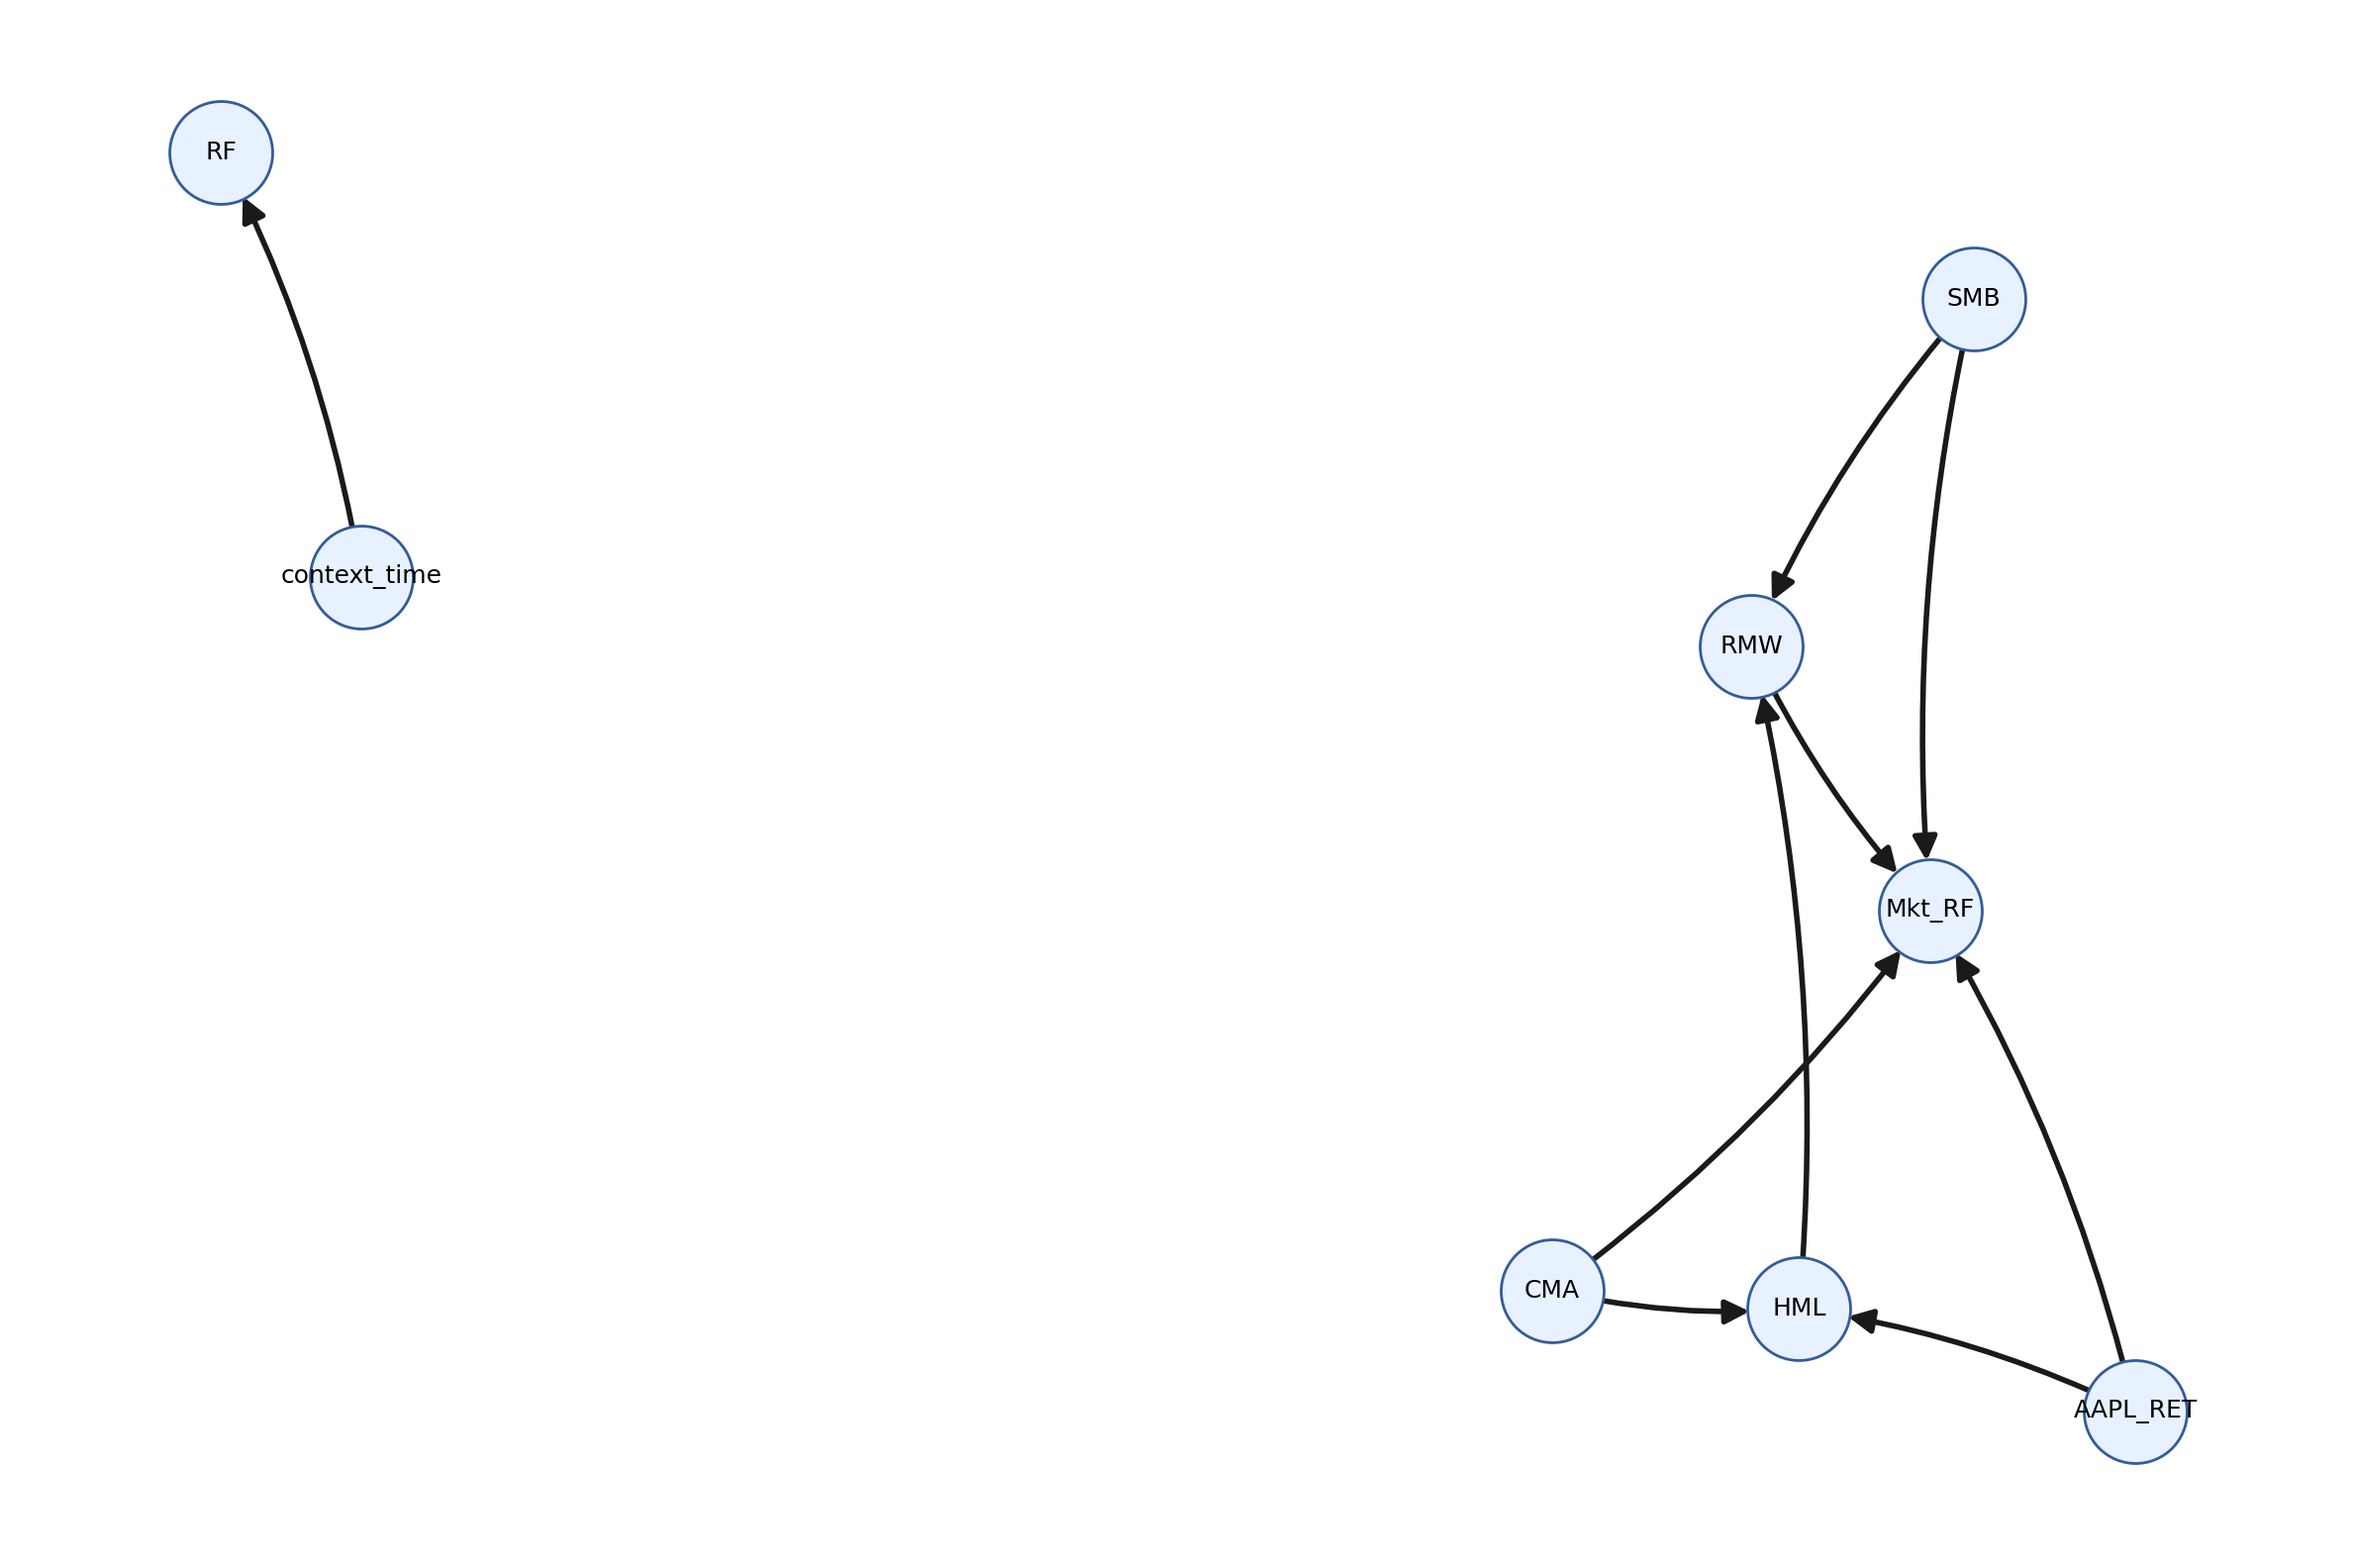
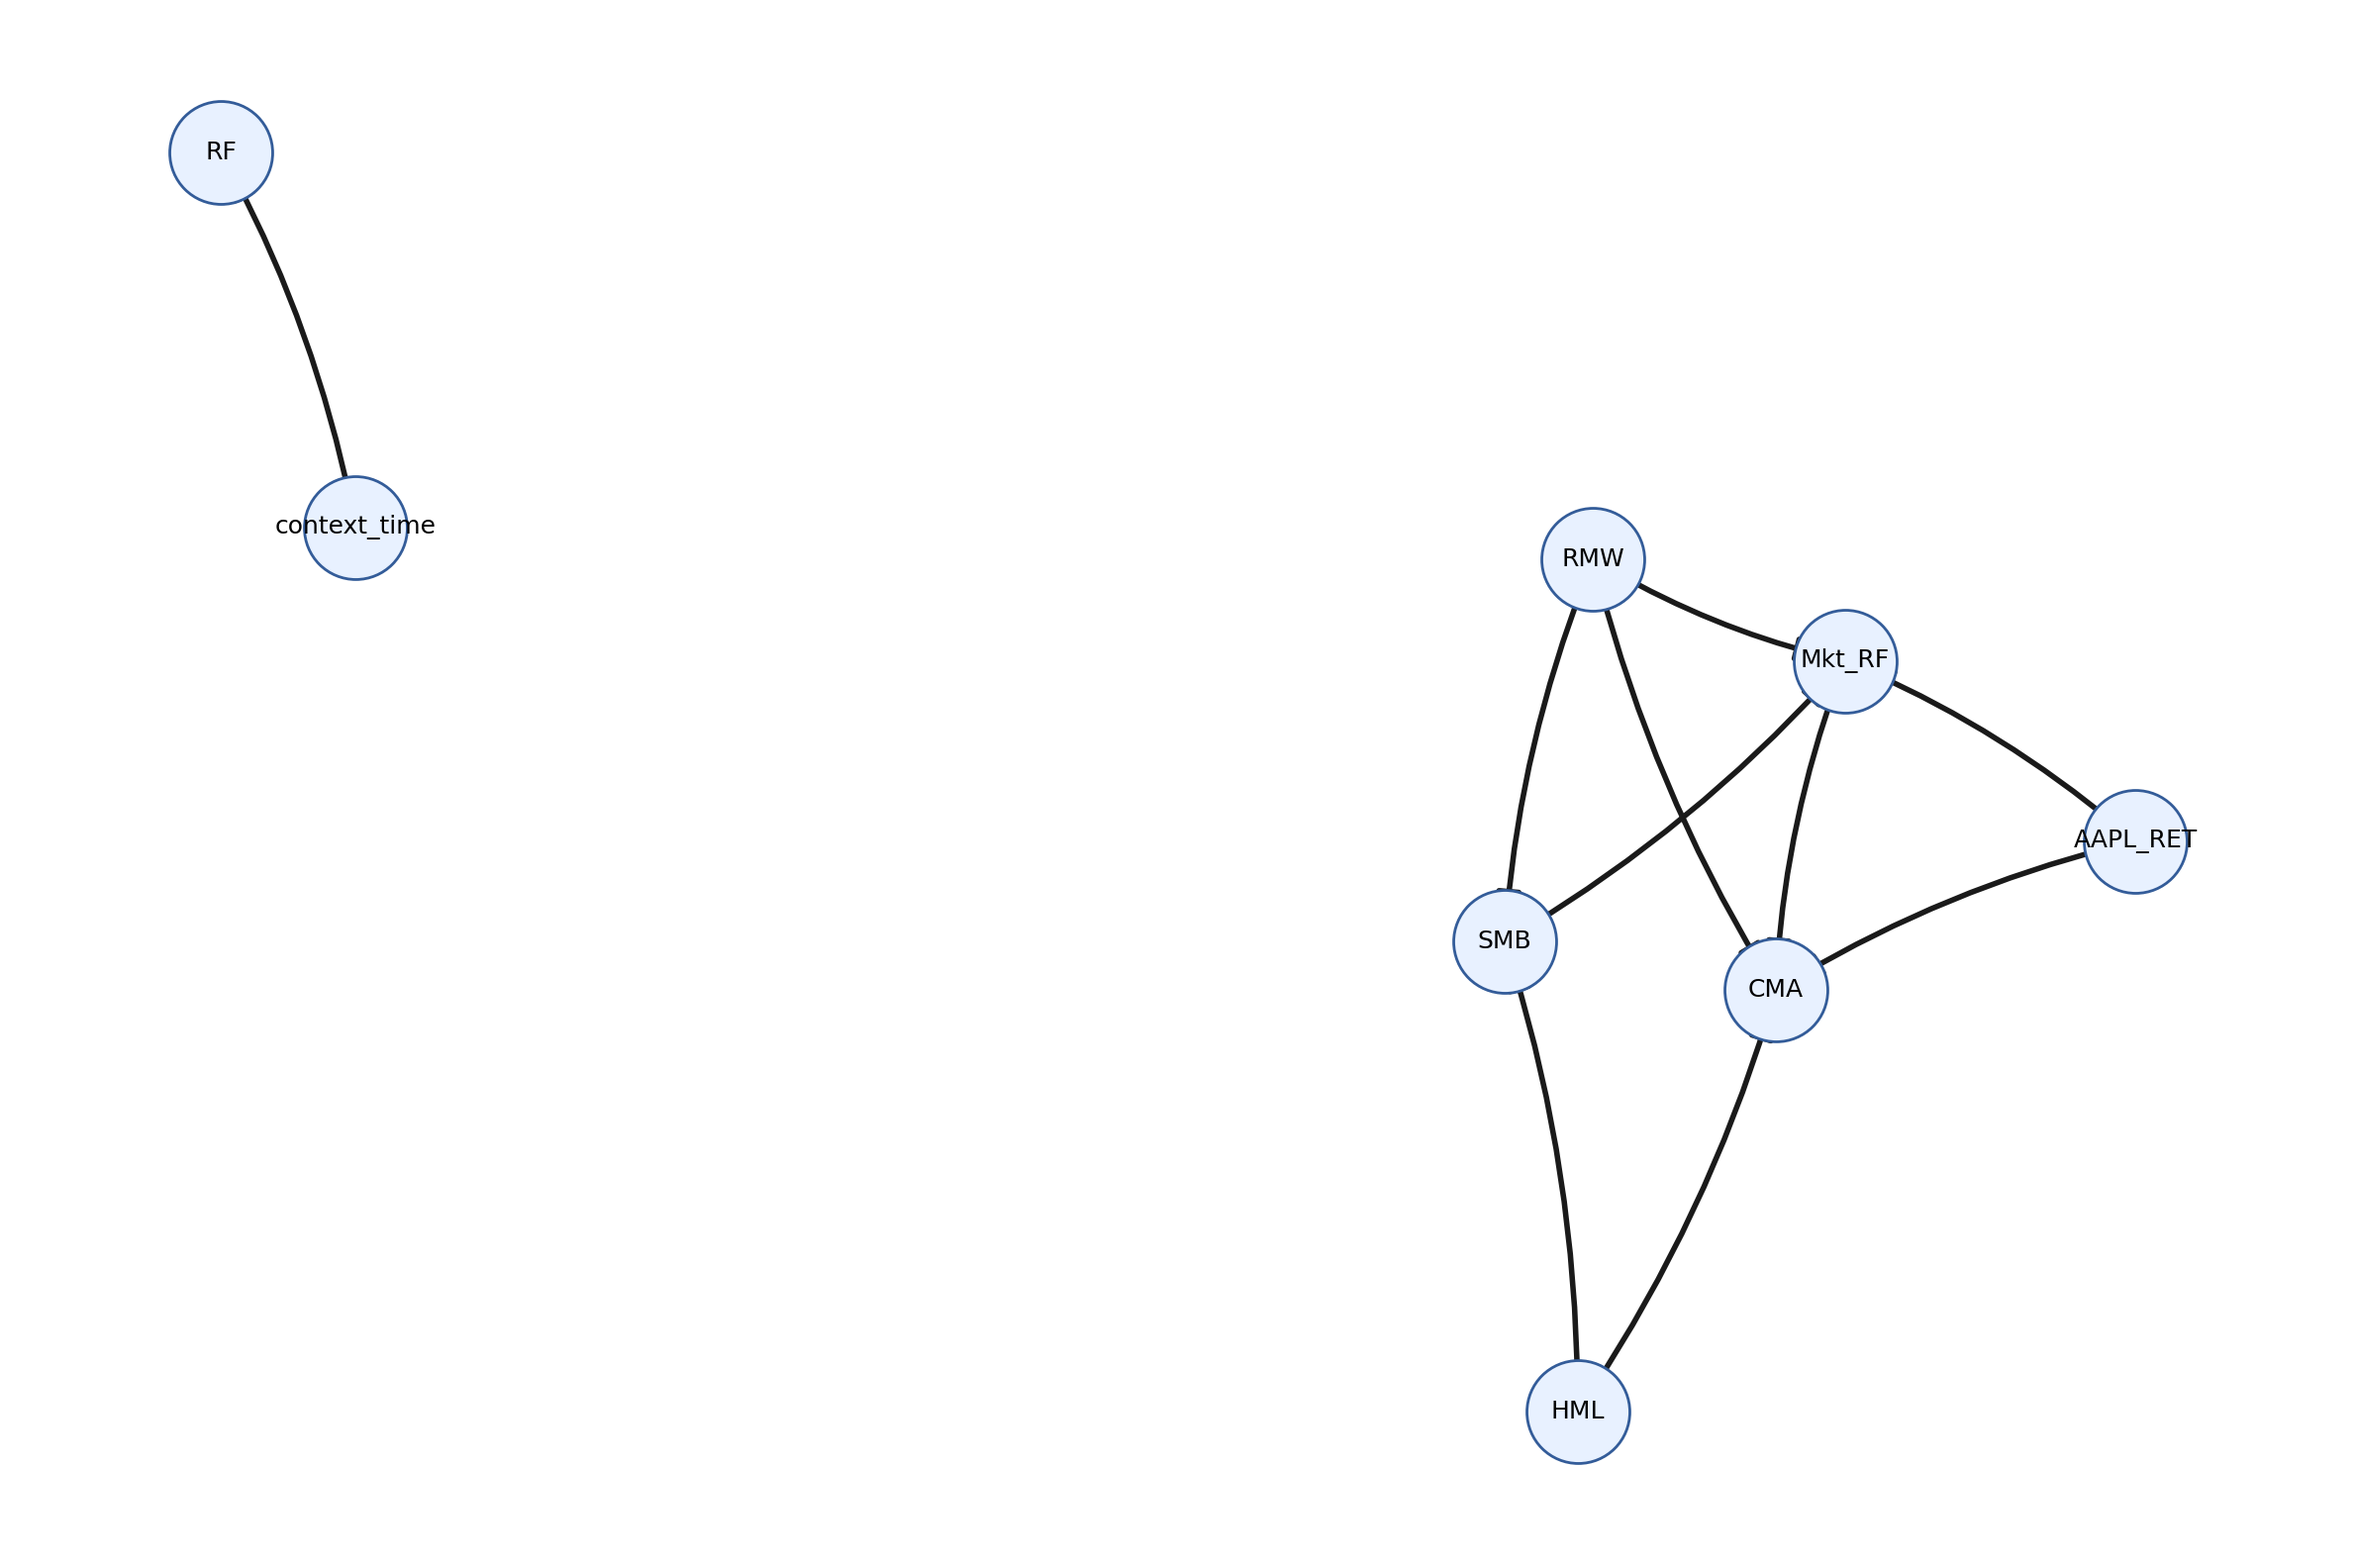
Optimize data download compatibility and refresh discovery artifacts
Replace legacy datareader-based download paths with Python 3.13-compatible direct endpoints and update generated CD-NOD output artifacts after reruns on real downloaded data.

diff --git a/scripts/download_famafrench_apple.py b/scripts/download_famafrench_apple.py
@@ -1,22 +1,63 @@
 from __future__ import annotations
 
+import io
+import zipfile
 from pathlib import Path
 
 import pandas as pd
+import requests
 import yfinance as yf
-from pandas_datareader import data as pdr
 from src.cdnots.project_io import ProjectPaths, get_logger
 
 LOGGER = get_logger("scripts.download_famafrench_apple")
+
+
+def _download_famafrench_5f_daily() -> pd.DataFrame:
+    """
+    Download and parse the Fama-French 5-factor daily dataset directly from
+    Kenneth French's public ZIP endpoint.
+    """
+    url = "https://mba.tuck.dartmouth.edu/pages/faculty/ken.french/ftp/F-F_Research_Data_5_Factors_2x3_daily_CSV.zip"
+    response = requests.get(url, timeout=60)
+    response.raise_for_status()
+    with zipfile.ZipFile(io.BytesIO(response.content)) as archive:
+        inner_name = archive.namelist()[0]
+        raw_text = archive.read(inner_name).decode("utf-8", errors="ignore")
+
+    lines = raw_text.splitlines()
+    start_idx = None
+    for idx, line in enumerate(lines):
+        if line.strip().startswith(",Mkt-RF"):
+            start_idx = idx
+            break
+    if start_idx is None:
+        raise RuntimeError("Could not locate Fama-French daily table header.")
+
+    table_lines: list[str] = []
+    for line in lines[start_idx:]:
+        stripped = line.strip()
+        if not stripped:
+            break
+        # Daily rows have YYYYMMDD in first column
+        if stripped[0].isdigit() and len(stripped.split(",")[0]) == 8:
+            table_lines.append(stripped)
+        elif stripped.startswith(",Mkt-RF"):
+            table_lines.append(stripped)
+        elif table_lines:
+            break
+
+    ff = pd.read_csv(io.StringIO("\n".join(table_lines)))
+    ff = ff.rename(columns={ff.columns[0]: "Date", "Mkt-RF": "Mkt_RF"})
+    ff["Date"] = pd.to_datetime(ff["Date"], format="%Y%m%d")
+    ff = ff.set_index("Date").sort_index()
+    return ff
 
 
 def main() -> None:
     paths = ProjectPaths(Path("."))
     paths.ensure_standard_dirs()
 
-    ff = pdr.DataReader("F-F_Research_Data_5_Factors_2x3_daily", "famafrench")[0]
-    ff.index = pd.to_datetime(ff.index)
-    ff = ff.rename(columns={"Mkt-RF": "Mkt_RF"})
+    ff = _download_famafrench_5f_daily()
 
     aapl = yf.download("AAPL", start="2000-01-01", end="2023-12-01", auto_adjust=True, progress=False)
     if isinstance(aapl.columns, pd.MultiIndex):

diff --git a/scripts/download_macro_data.py b/scripts/download_macro_data.py
@@ -1,9 +1,10 @@
 from __future__ import annotations
 
+import io
 from pathlib import Path
 
 import pandas as pd
-from pandas_datareader import data as pdr
+import requests
 from src.cdnots.project_io import ProjectPaths, get_logger
 
 LOGGER = get_logger("scripts.download_macro_data")
@@ -19,6 +20,22 @@ FRED_SERIES = {
 }
 
 
+def _fetch_fred_series(series_id: str, start: str, end: str) -> pd.DataFrame:
+    """
+    Fetch a single FRED series using the public CSV endpoint.
+    """
+    url = f"https://fred.stlouisfed.org/graph/fredgraph.csv?id={series_id}"
+    response = requests.get(url, timeout=60)
+    response.raise_for_status()
+    series_df = pd.read_csv(io.StringIO(response.text))
+    date_col = series_df.columns[0]
+    series_df = series_df.rename(columns={date_col: "date", series_id: series_id})
+    series_df["date"] = pd.to_datetime(series_df["date"], errors="coerce")
+    series_df[series_id] = pd.to_numeric(series_df[series_id], errors="coerce")
+    mask = (series_df["date"] >= pd.to_datetime(start)) & (series_df["date"] <= pd.to_datetime(end))
+    return series_df.loc[mask].reset_index(drop=True)
+
+
 def main() -> None:
     paths = ProjectPaths(Path("."))
     paths.ensure_standard_dirs()
@@ -28,7 +45,8 @@ def main() -> None:
         country_df = pd.DataFrame()
         for fred_code, col in mapping.items():
             try:
-                s = pdr.DataReader(fred_code, "fred", start, end).rename(columns={fred_code: col})
+                s = _fetch_fred_series(fred_code, start, end).rename(columns={fred_code: col})
+                s = s.set_index("date")
                 country_df = s if country_df.empty else country_df.join(s, how="outer")
             except Exception:
                 continue
